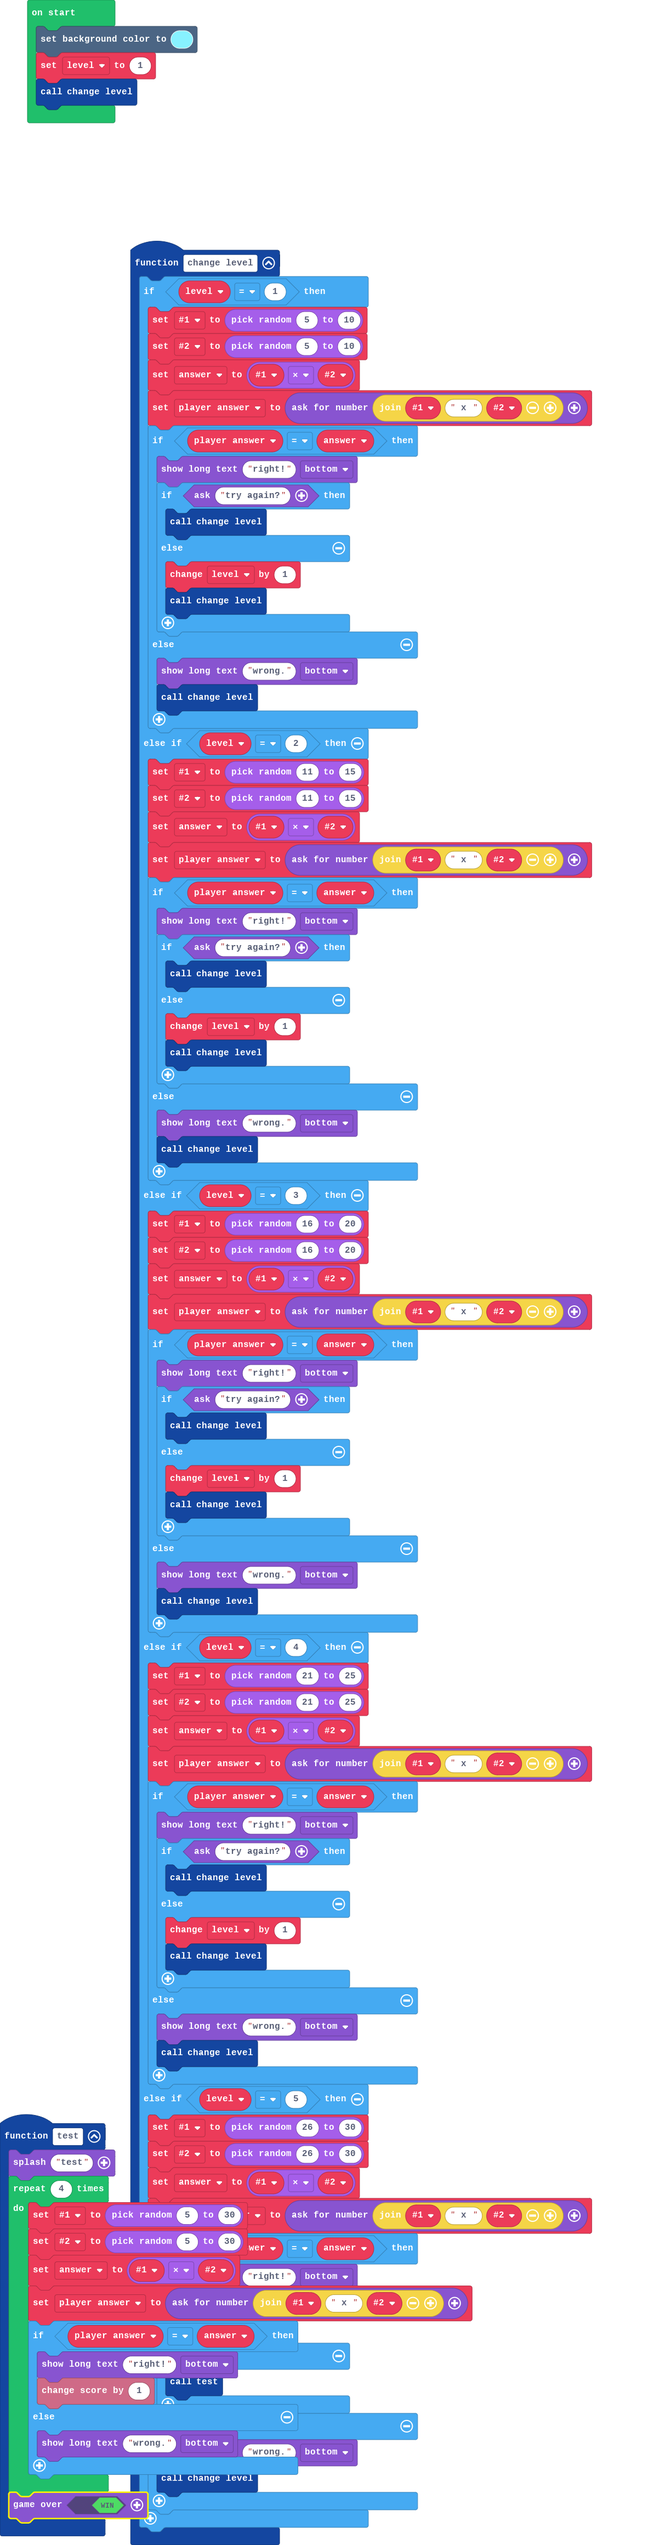
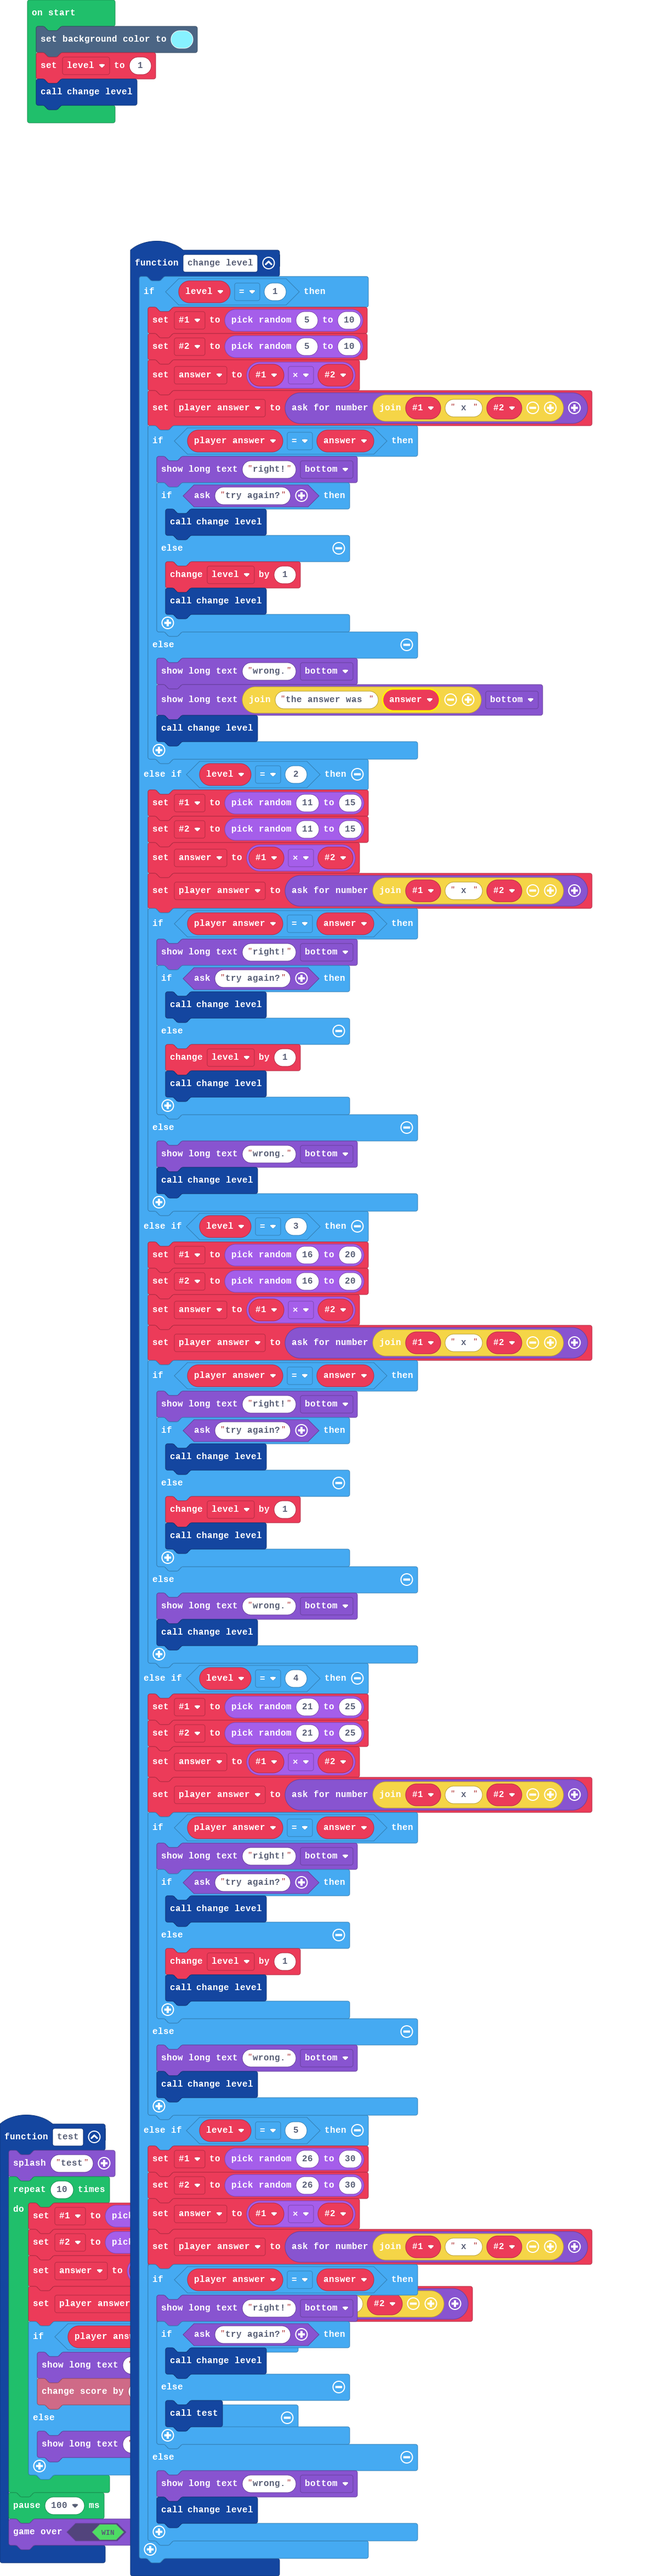
Update main.blocks, main.ts

Changed region(s): [[0.0, 0.0938, 0.9062, 1.0], [0.0625, 0.0, 0.1562, 0.0625], [0.1875, 0.0, 0.2188, 0.0312]]

diff --git a/main.ts b/main.ts
@@ -14,6 +14,7 @@ function change_level () {
             }
         } else {
             game.showLongText("wrong.", DialogLayout.Bottom)
+            game.showLongText("the answer was " + answer, DialogLayout.Bottom)
             change_level()
         }
     } else if (level == 2) {
@@ -87,7 +88,7 @@ function change_level () {
 }
 function test () {
     game.splash("test")
-    for (let index = 0; index < 4; index++) {
+    for (let index = 0; index < 10; index++) {
         _1 = randint(5, 30)
         _2 = randint(5, 30)
         answer = _1 * _2
@@ -99,6 +100,7 @@ function test () {
             game.showLongText("wrong.", DialogLayout.Bottom)
         }
     }
+    pause(100)
     game.over(true)
 }
 let player_answer = 0
